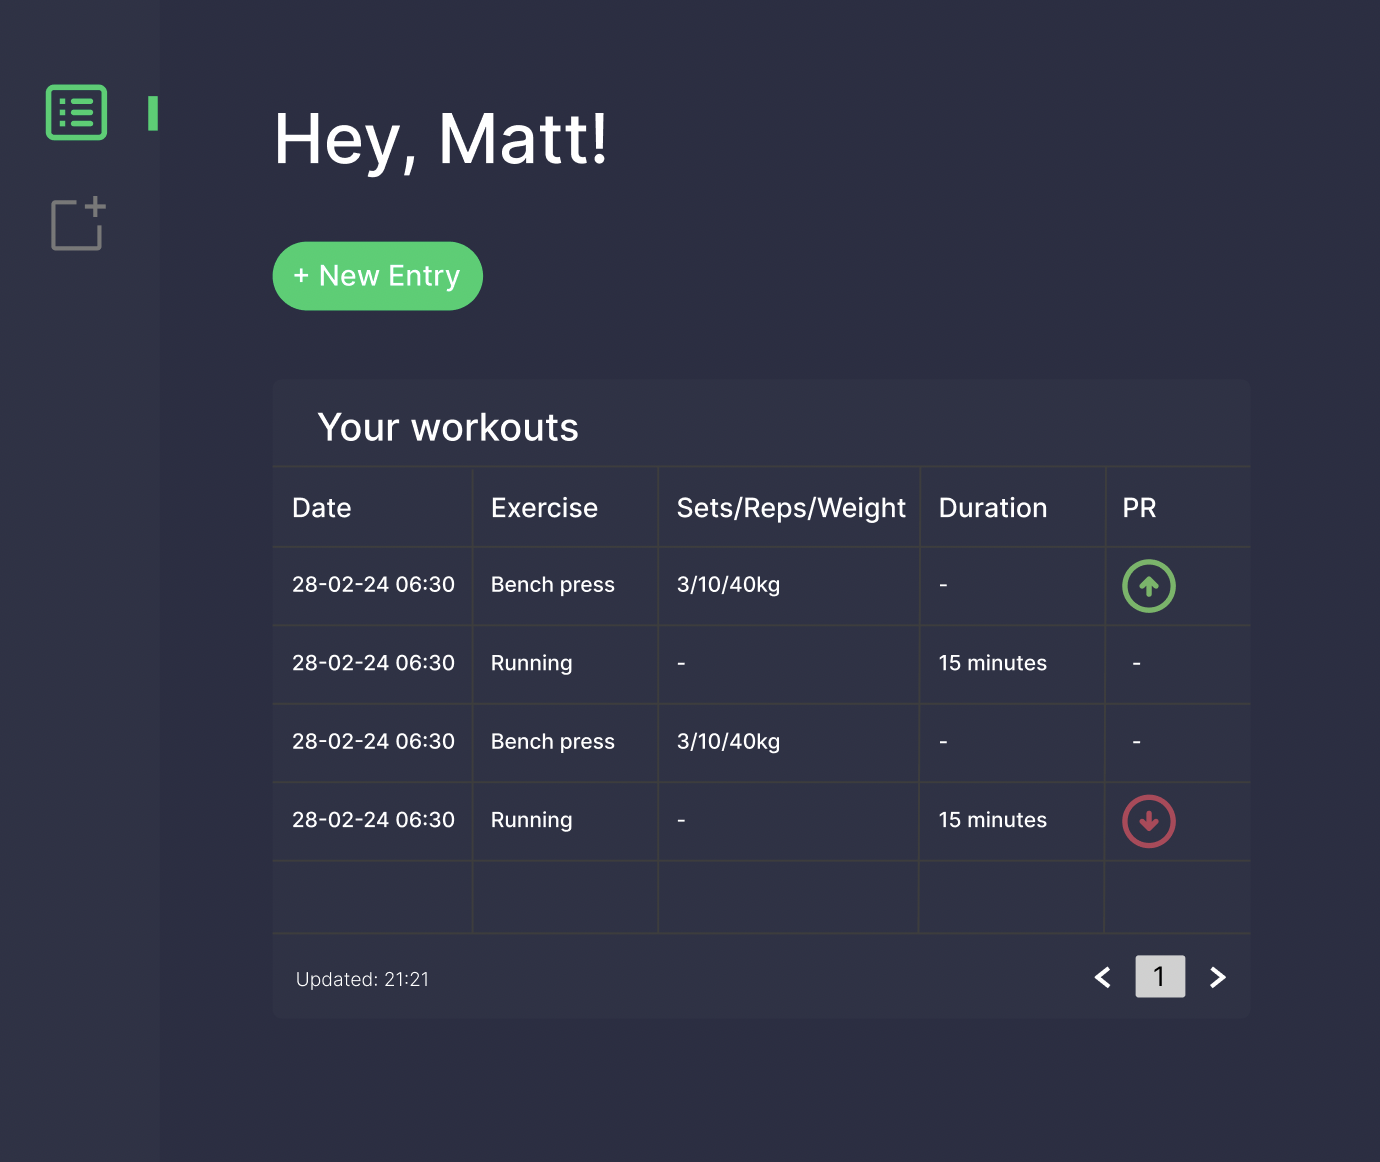
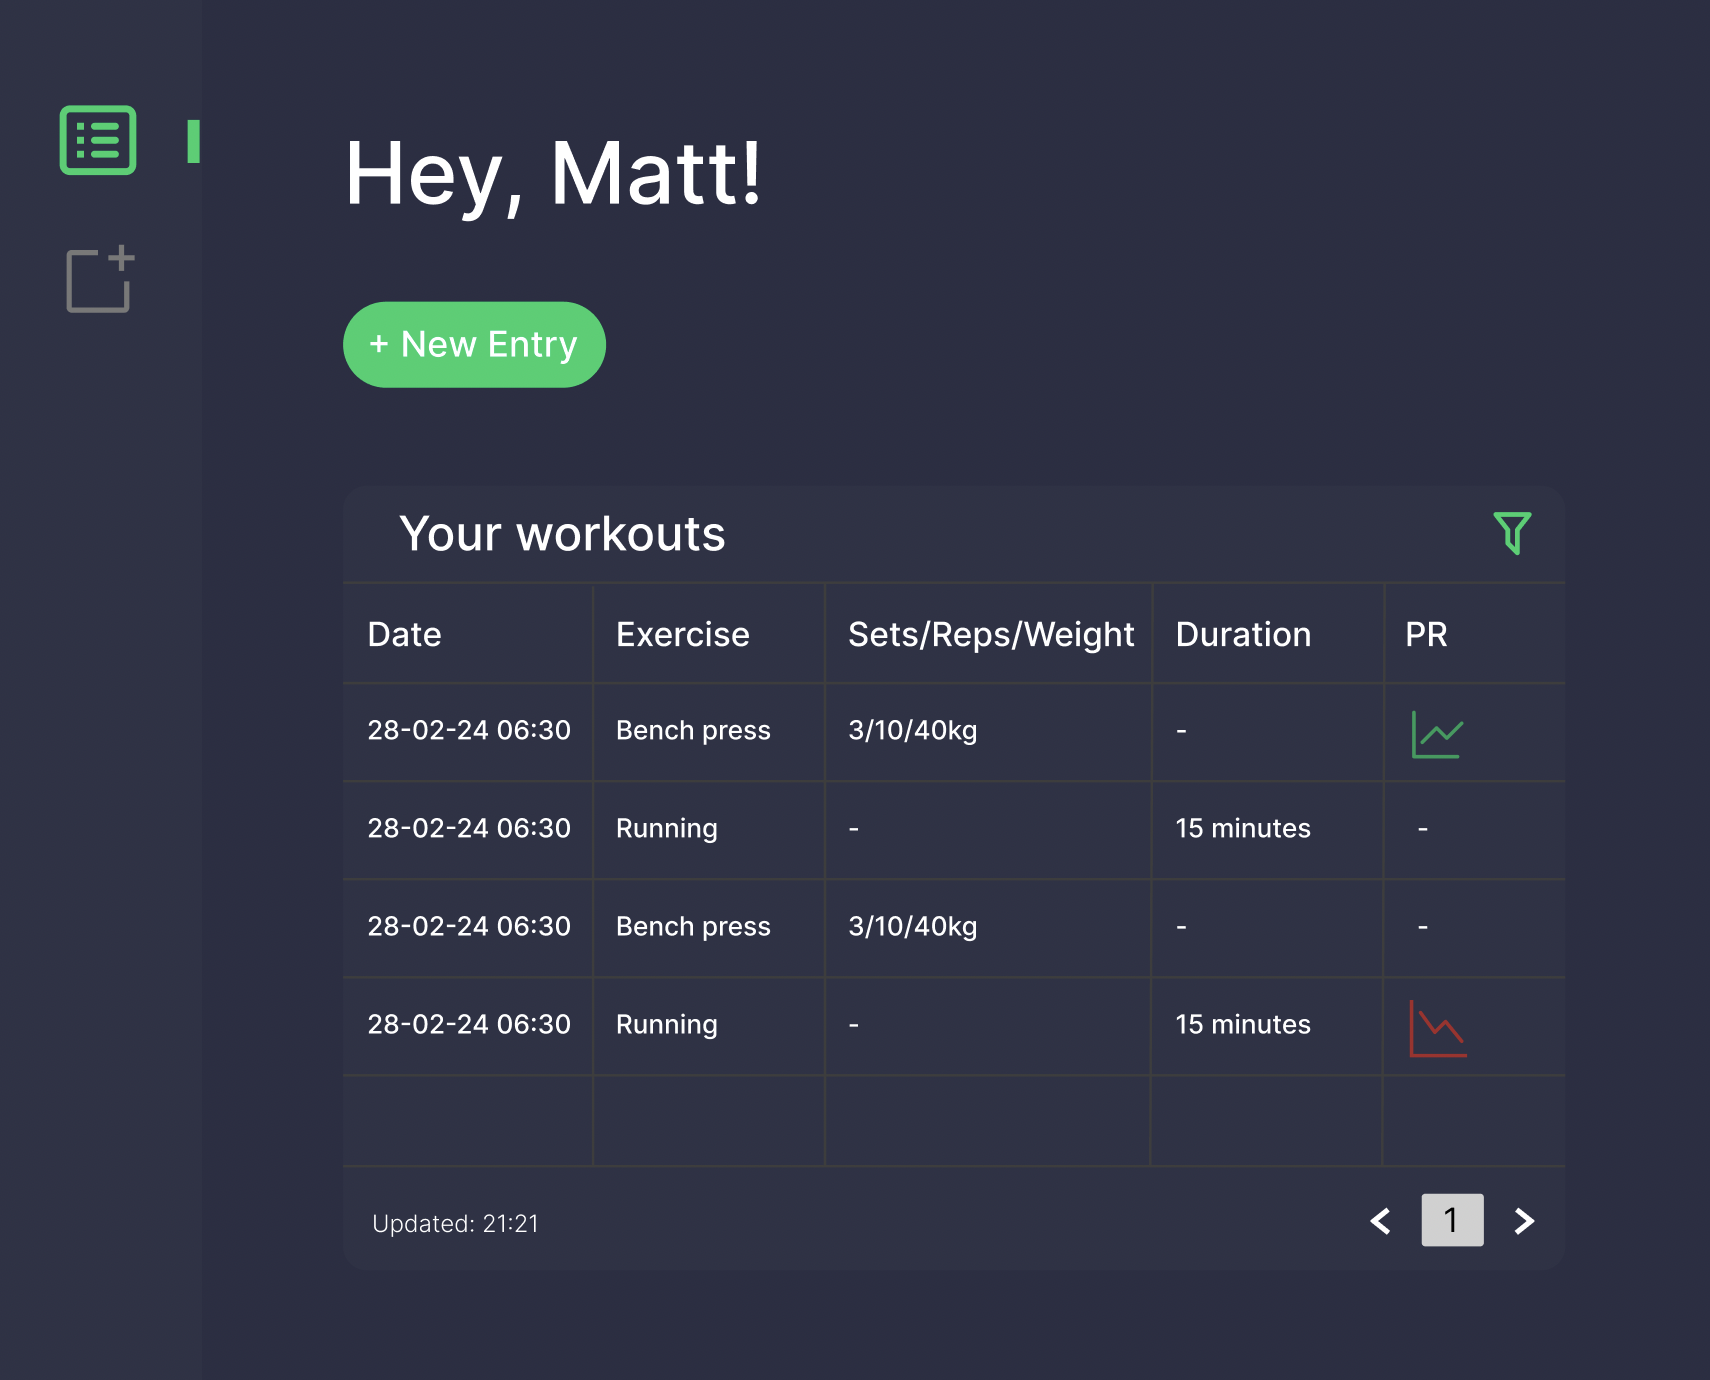
Update to summary sketch and README

diff --git a/README.md b/README.md
@@ -21,6 +21,8 @@ Workout tracker
 - Ability to view past exercises based on:
 -   Attendance to gym (maybe a calendar view?)
 -   Exercise configuration (in a table, displaying the weight, day, tooltip of reps/sets)
+-   Pagination on the table to only retrieve 10 rows/page.
+-   Filterable by day/category/workout
 
 #### TECHSTACK:
 
